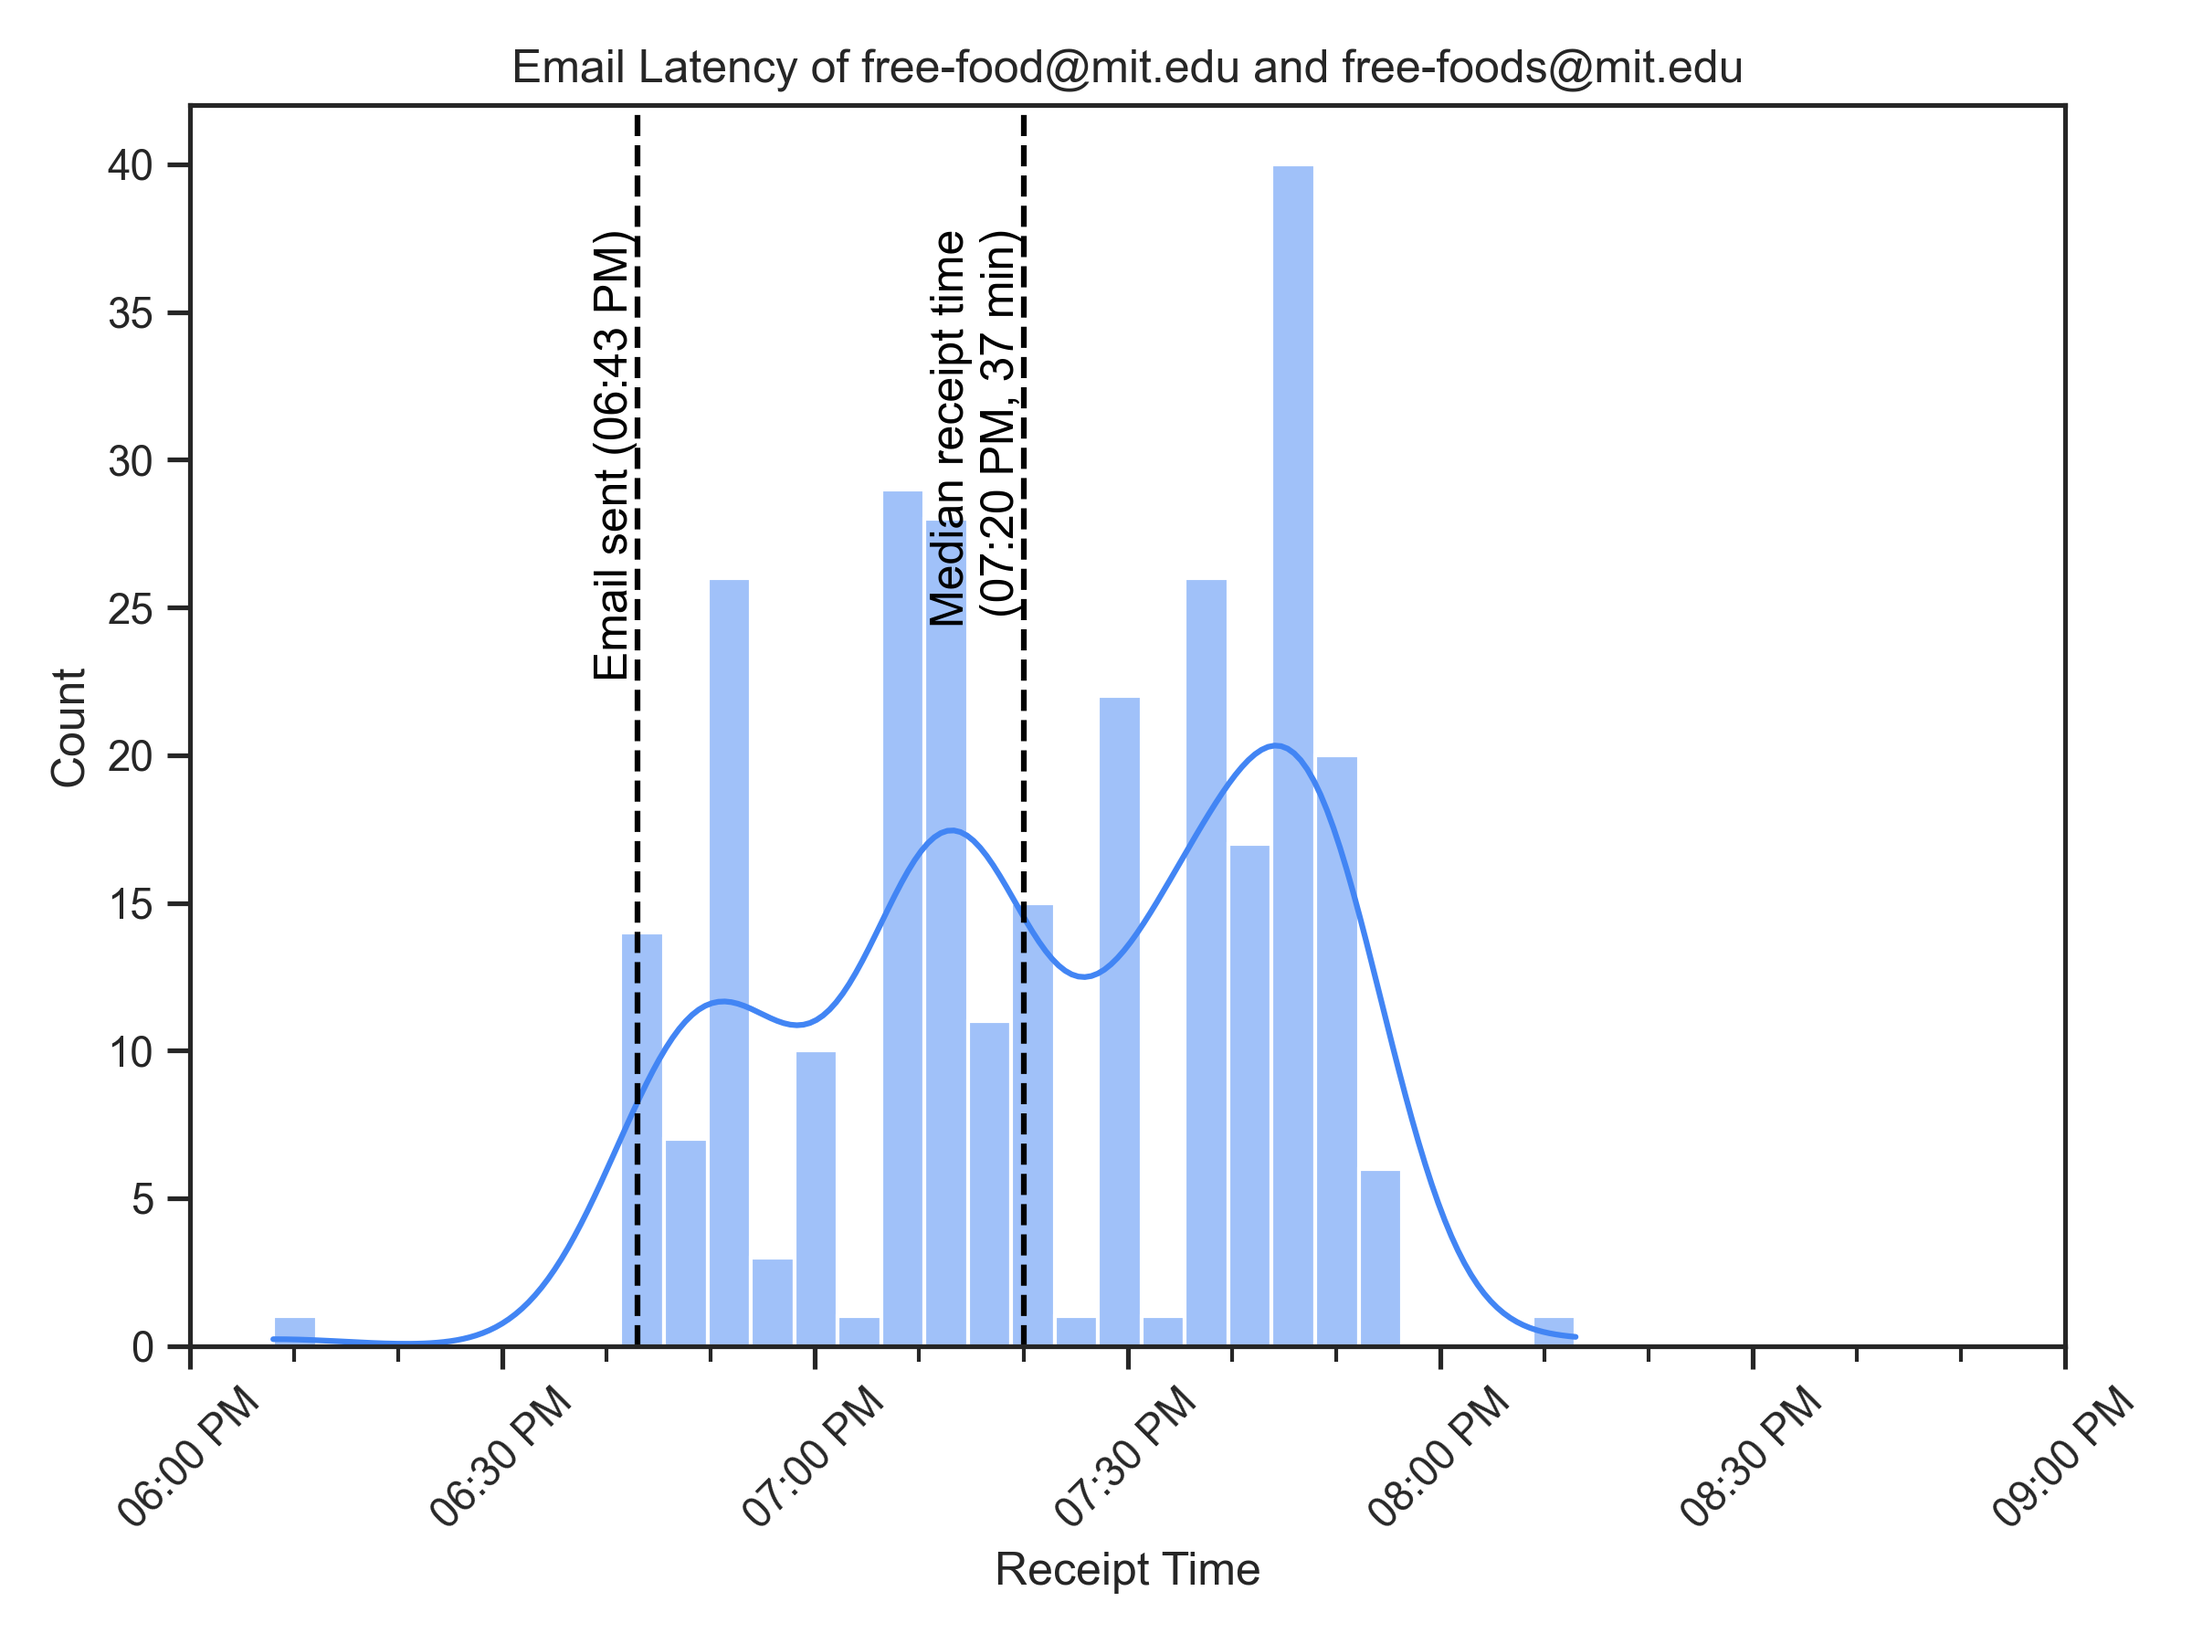
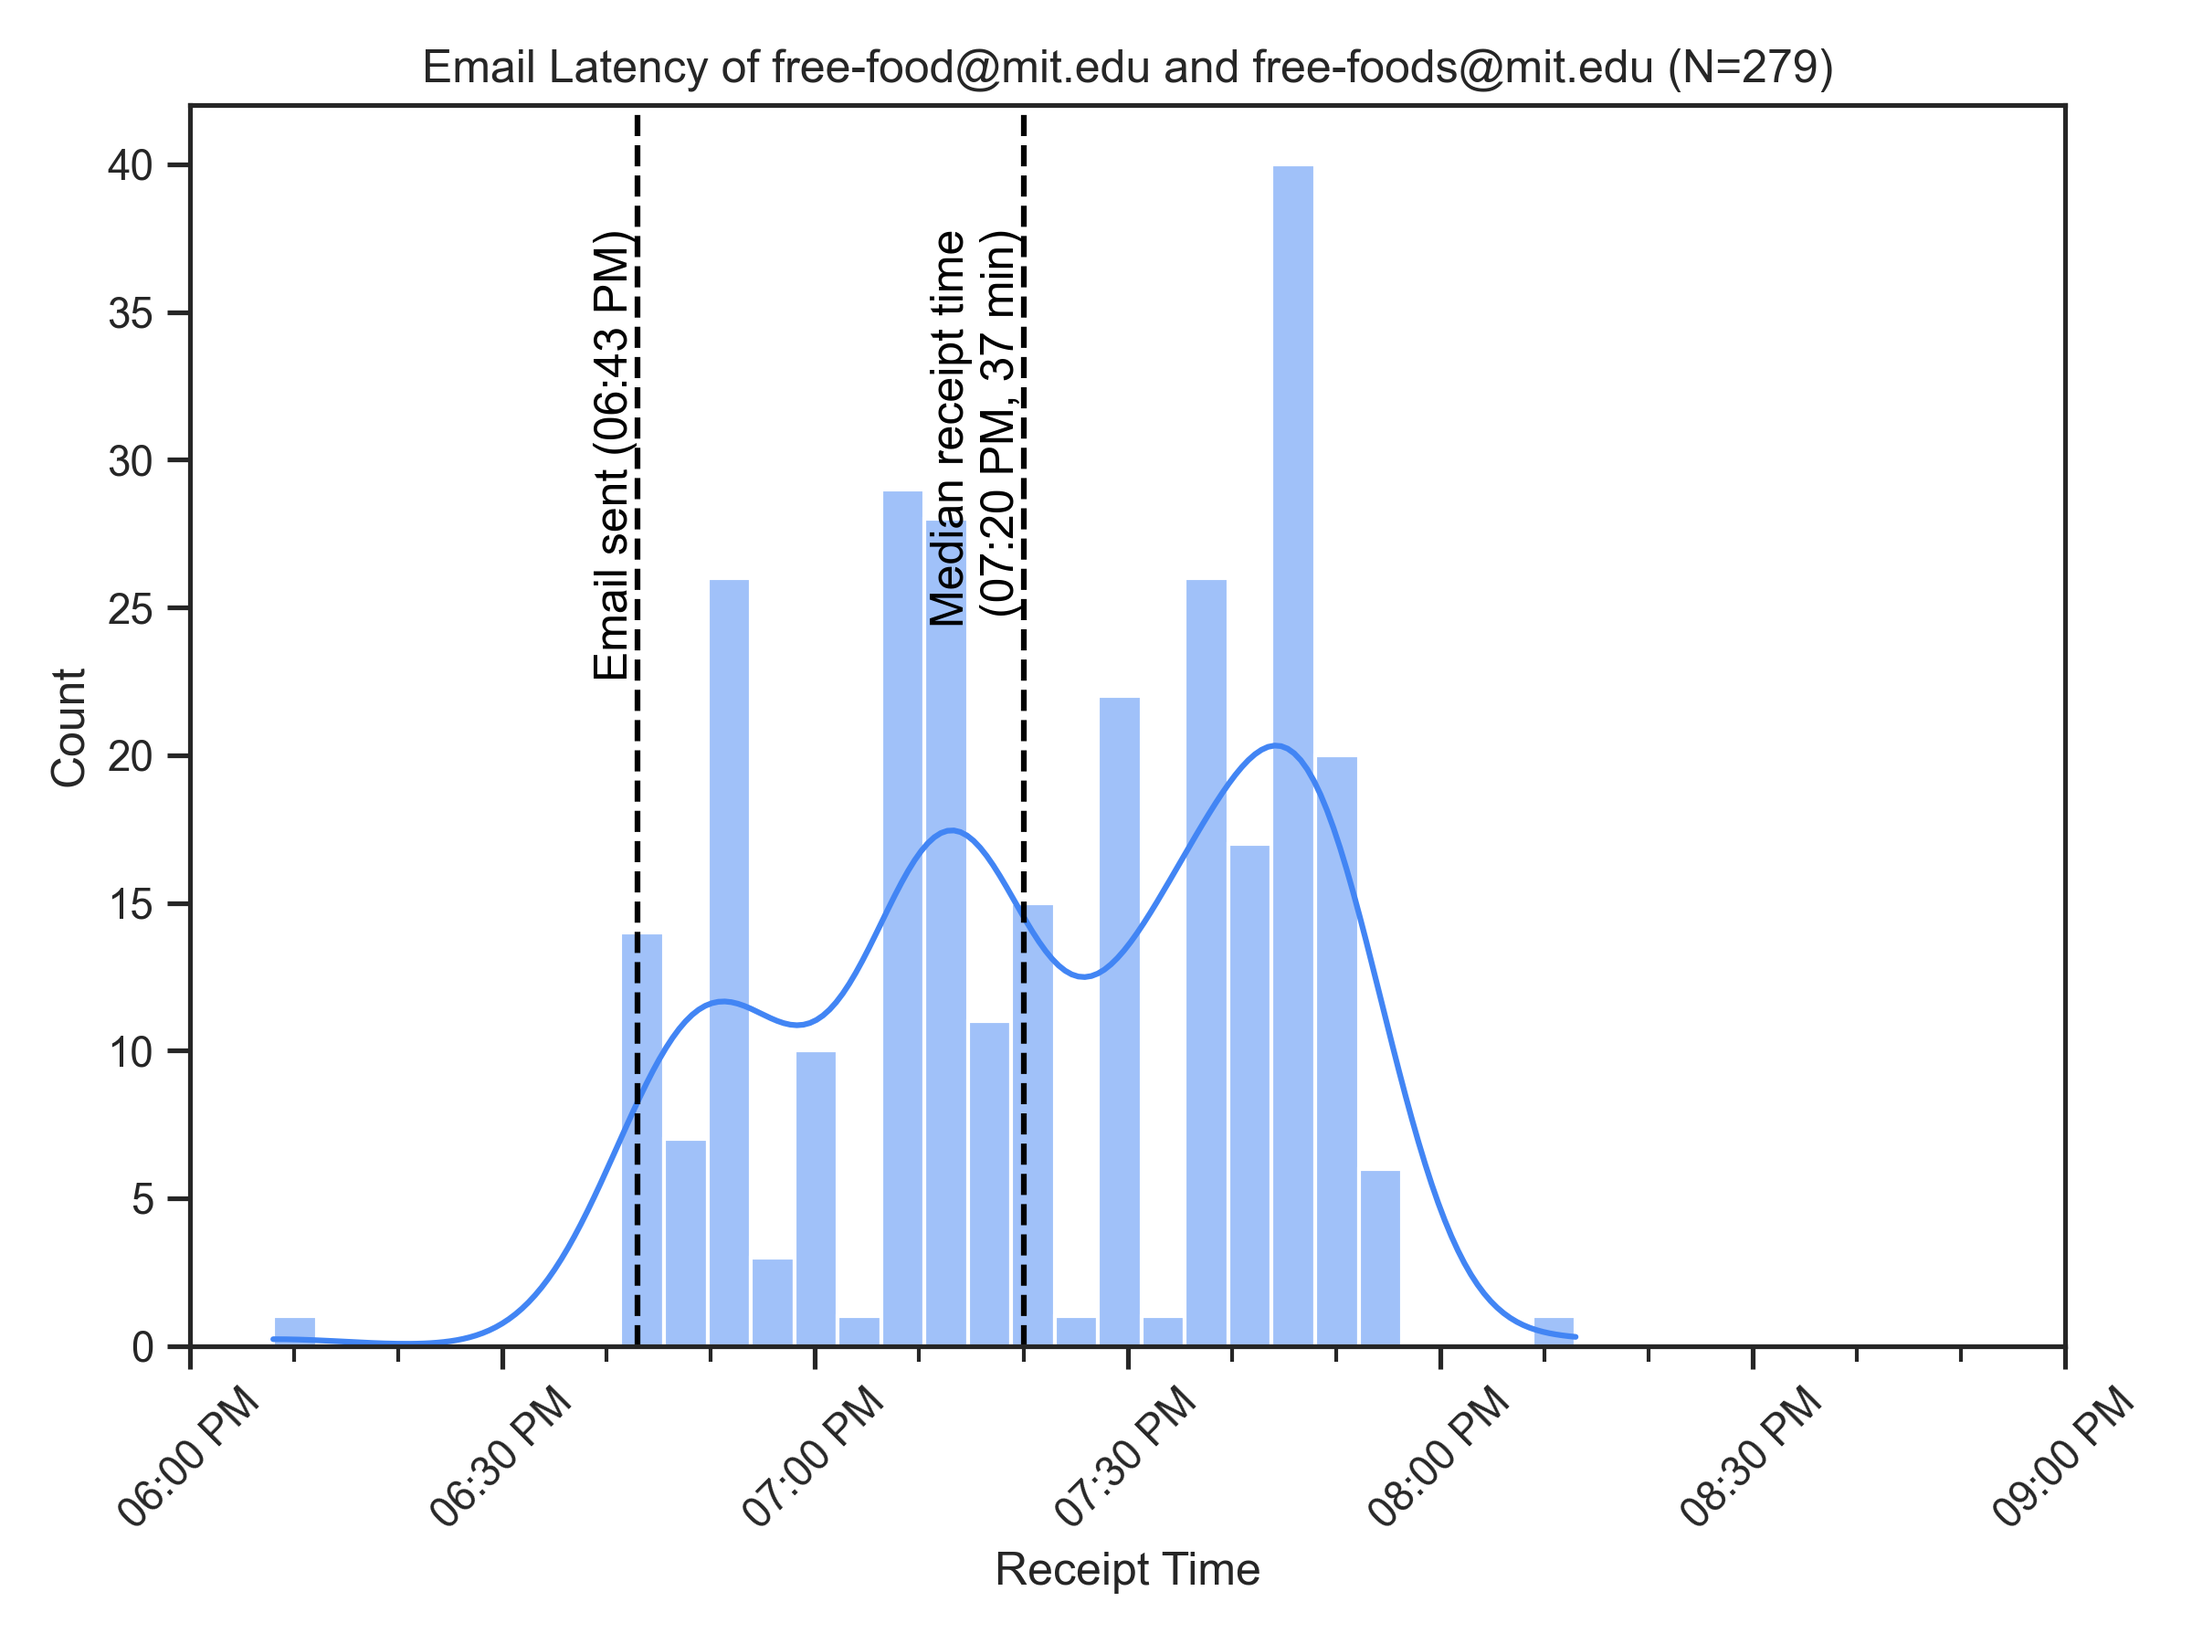
Add number of samples to plot

Changed region(s): [[0.1875, 0.0311, 0.8438, 0.0622]]

diff --git a/analyze.py b/analyze.py
@@ -67,7 +67,7 @@ plt.xlim(*valid_range)
 plt.gcf().autofmt_xdate(rotation=45, ha='center')
 
 show_plot(
-    "Email Latency of free-food@mit.edu and free-foods@mit.edu",
+    f"Email Latency of free-food@mit.edu and free-foods@mit.edu (N={len(times)})",
     "Receipt Time",
     pretty_grids=False,
     show=False
